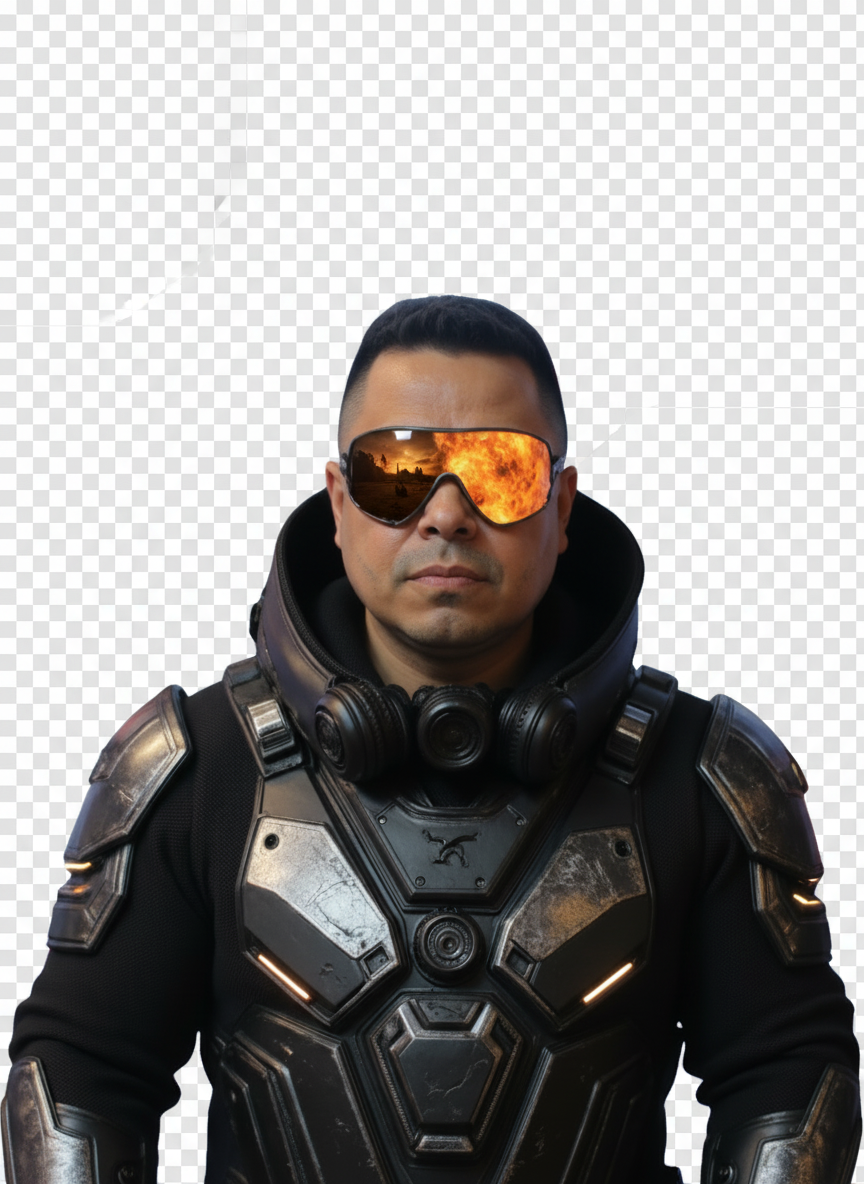
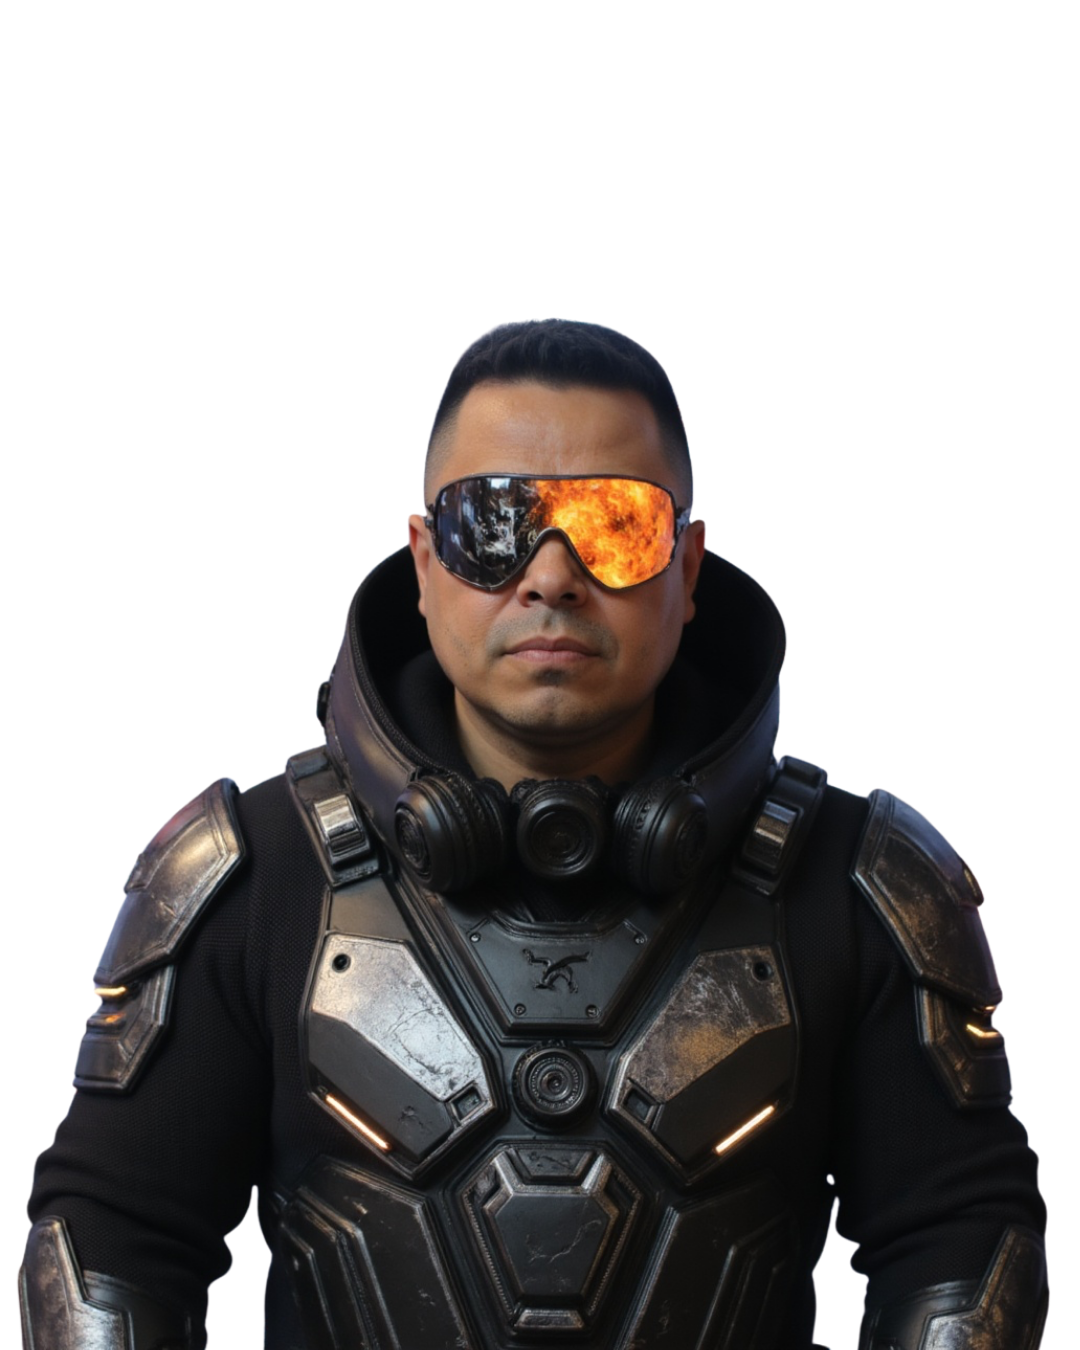
Changes

diff --git a/src/pages/LandingPage.tsx b/src/pages/LandingPage.tsx
@@ -222,7 +222,7 @@ const LandingPage: React.FC = () => {
                     src={hectorImage} 
                     alt="Hector Galensky" 
                     className="relative z-10 max-w-md w-full h-auto drop-shadow-2xl"
-                    style={{ mixBlendMode: 'normal' }}
+                    style={{ mixBlendMode: 'multiply' }}
                   />
                   {/* Bottom fade effect */}
                   <div className="absolute bottom-0 left-0 right-0 h-32 bg-gradient-to-t from-background via-background/80 to-transparent z-20 pointer-events-none" />
